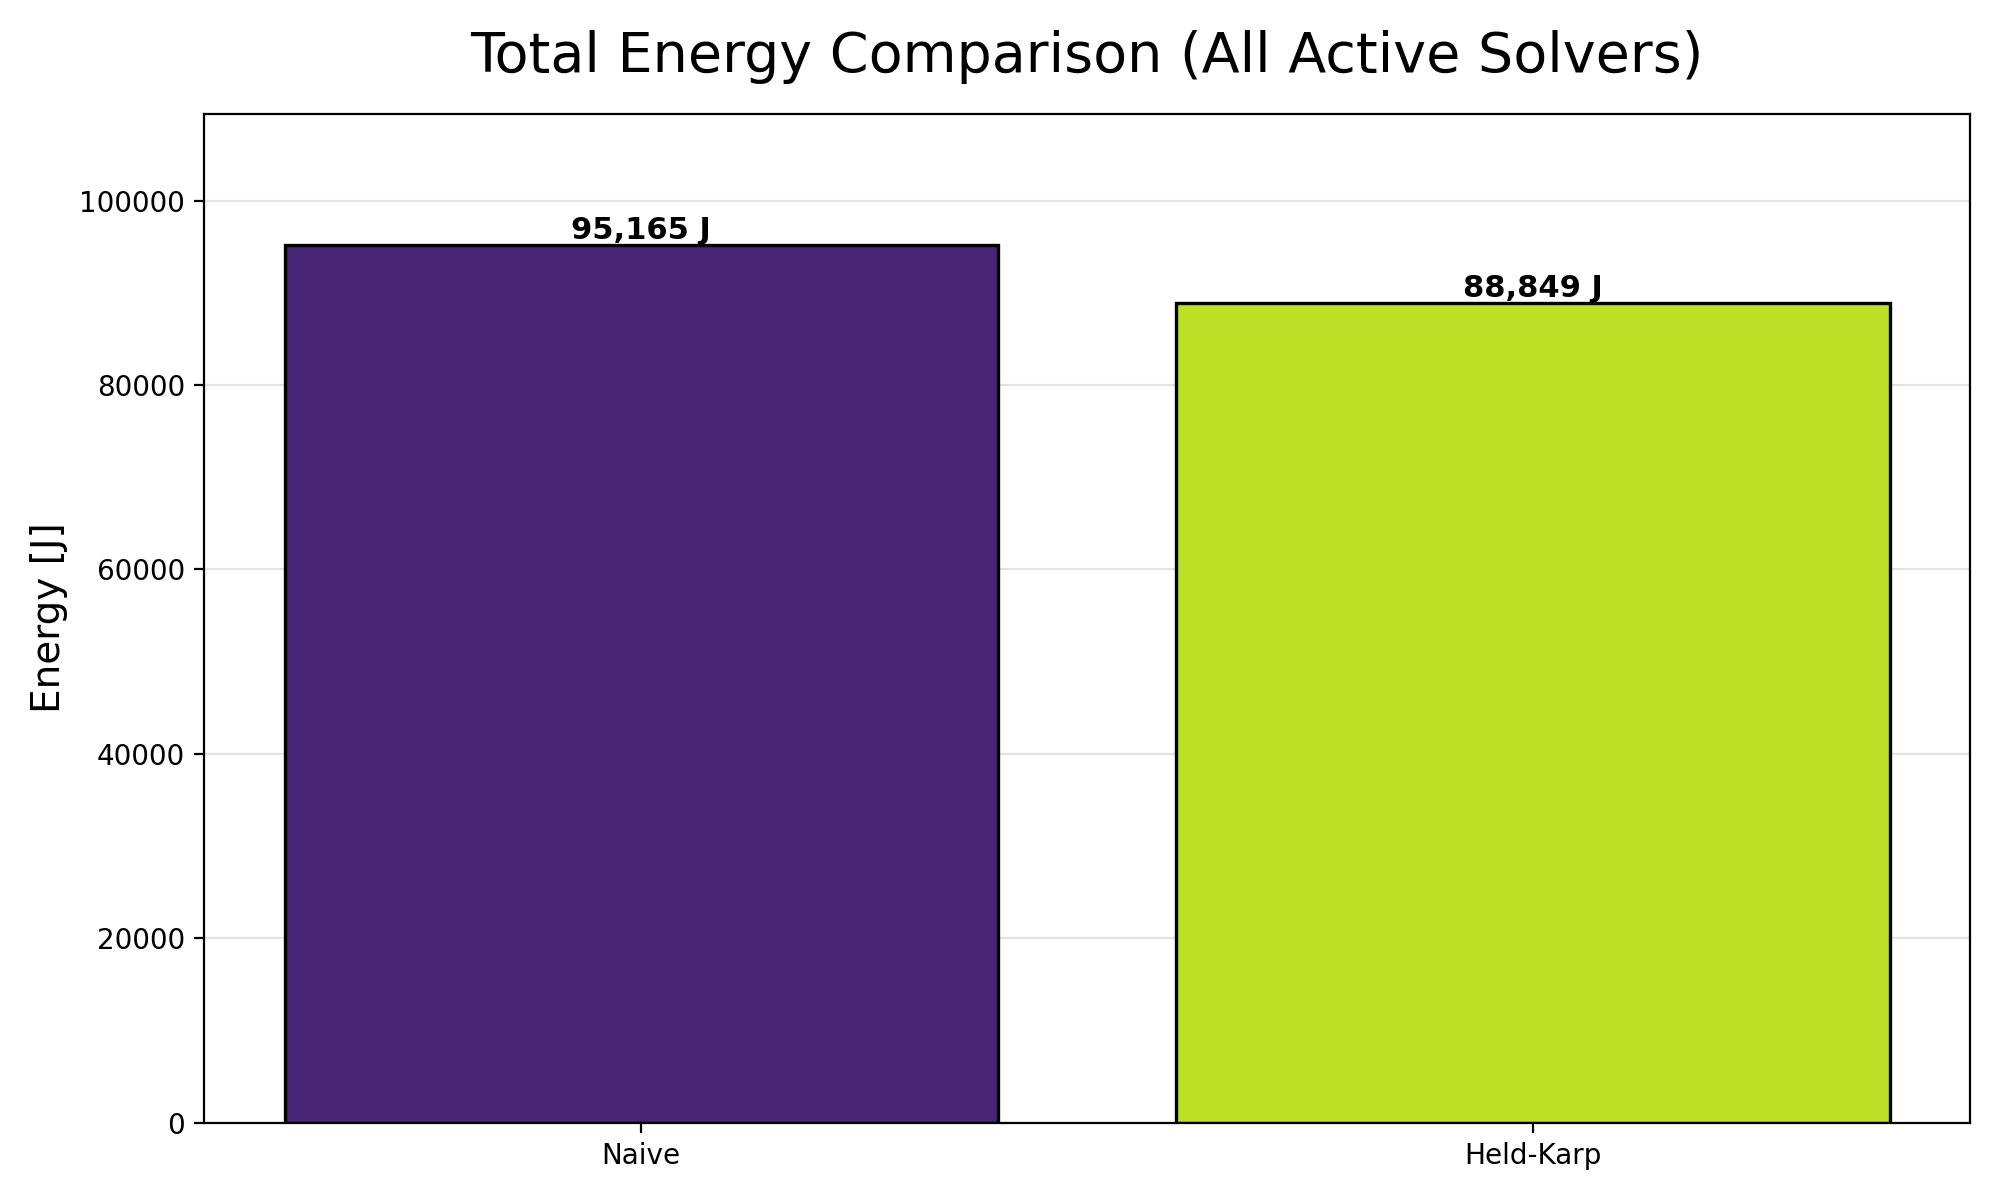
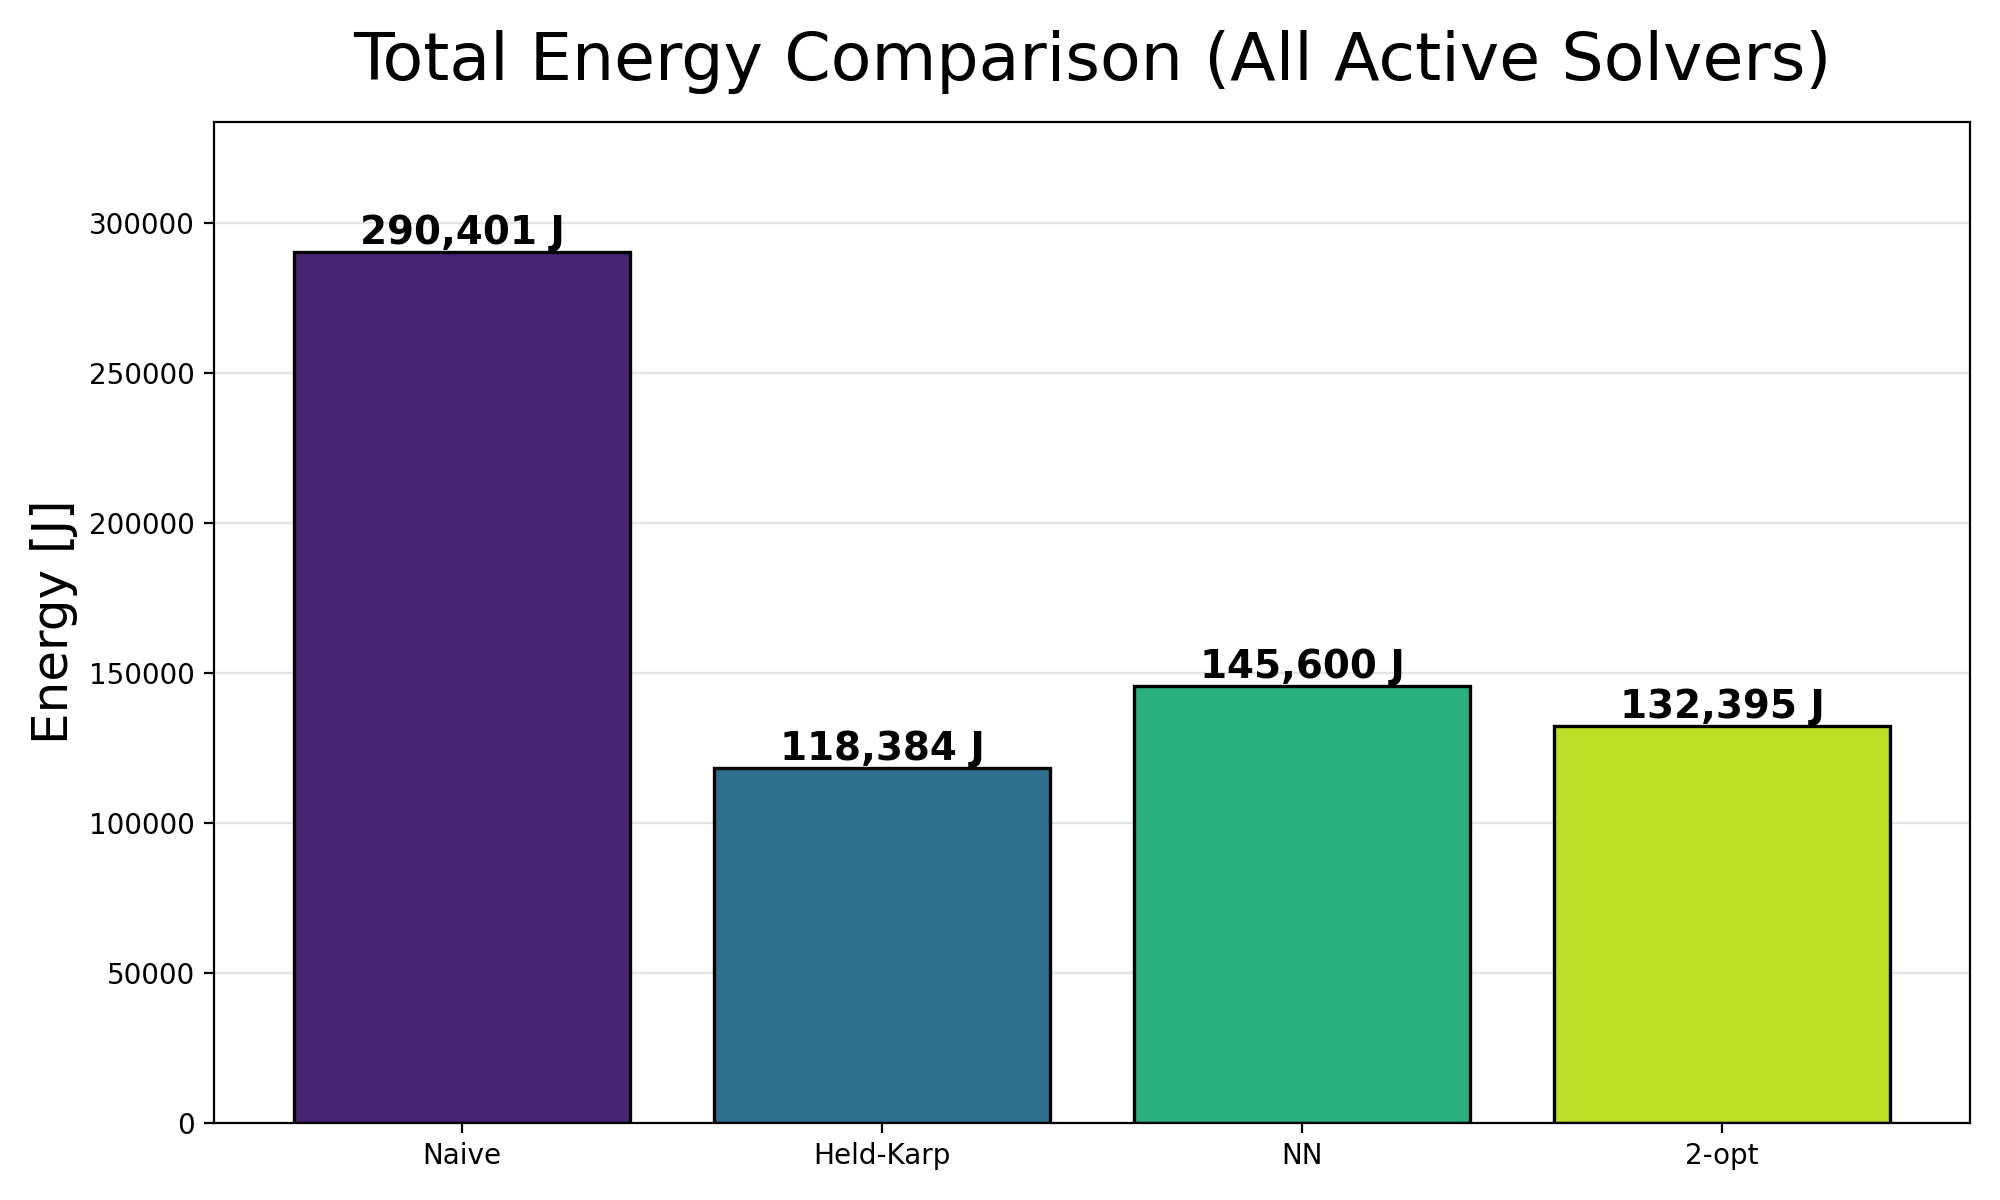
fix plotting, re-ordered so held-karp is first and nn's are next to eachother

diff --git a/final_project/plotting.py b/final_project/plotting.py
@@ -220,7 +220,7 @@ class Visualizer:
             f"Drone Route Optimization Comparison ({wind_str})", fontsize=24, y=0.98
         )
 
-        fig.tight_layout(rect=(0, 0, 1, 0.96))
+        fig.tight_layout(rect=(0, 0.03, 1, 0.95), h_pad=3)
         PLOTS_DIR.mkdir(parents=True, exist_ok=True)
         fig.savefig(PLOTS_DIR / filename, dpi=200, bbox_inches="tight")
         plt.close(fig)

diff --git a/final_project/main.py b/final_project/main.py
@@ -72,7 +72,7 @@ def main(
         primary_method = tsp_method
     else:
         # Default: run all safe solvers (skip brute-force automatically)
-        methods_to_run = ["nearest_neighbor", "nn_2opt", "held_karp"]
+        methods_to_run = ["held_karp", "nearest_neighbor", "nn_2opt"]
         primary_method = "held_karp"
 
     for m in methods_to_run:
